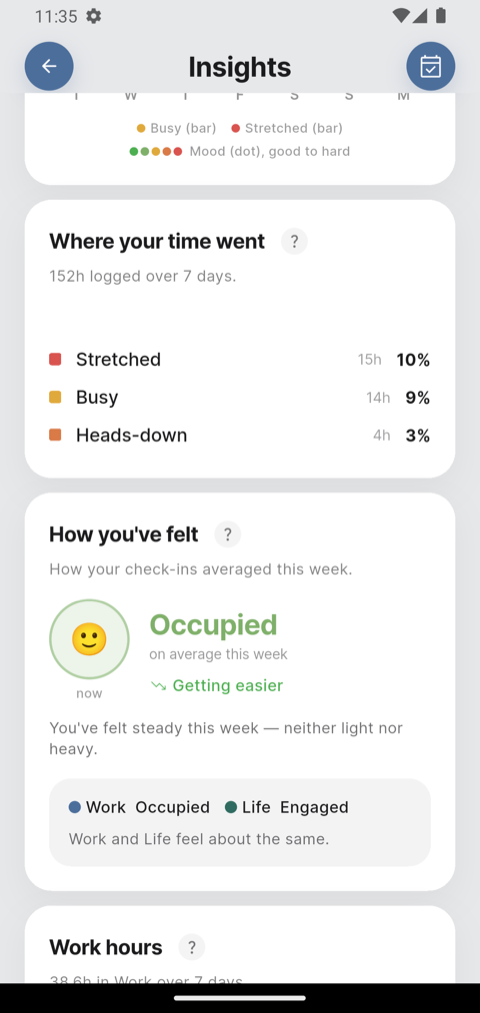
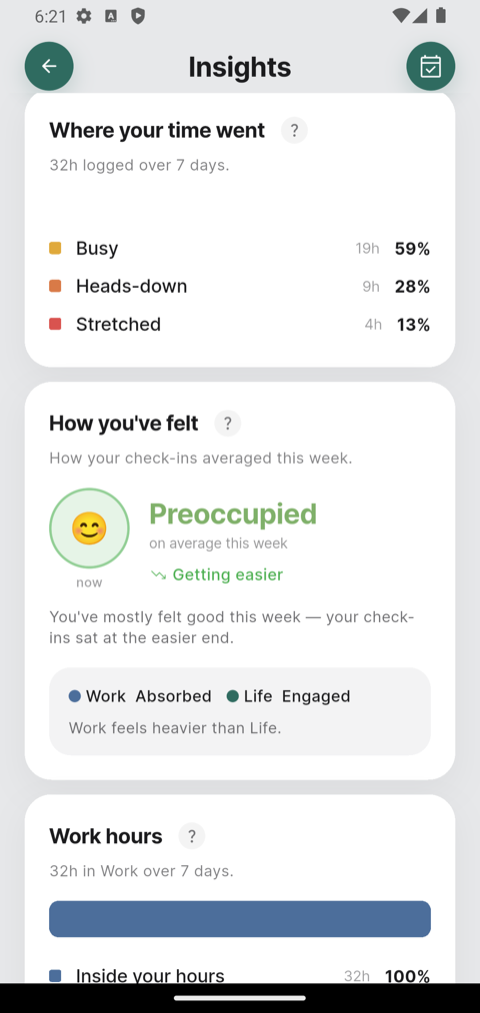
tutorial_1_1_7_40
Mood names and screenshots, the reworded next-day question, and the
gaps found reading the guide against the app: the welcome cards, the
yellow line on the dashboard, past-day events, in-app-only notes.

diff --git a/tutorial/index.html b/tutorial/index.html
@@ -282,7 +282,7 @@
       </p>
       <p>
         Forgot to say? When something suggests you worked, BAI asks the next day:
-        <em>Did you work yesterday evening?</em> Your answer only saves the hours.
+        <em>Did you work outside your hours yesterday?</em> Your answer only saves the hours.
       </p>
       <p class="pillar-when">
         The line can be tapped while your schedule is on. With the schedule off, switch
@@ -302,12 +302,22 @@
   <p>
     This is what opens when you launch BAI, and where the tour begins and ends.
   </p>
+  <p>
+    The first time you open BAI after an update, a short set of cards shows over the
+    dashboard: the everyday things, one per card. The pictures on them are examples
+    only. Tap <strong>Next</strong> to go through them or <strong>Skip</strong> to
+    close; the last card has a button that opens this guide.
+  </p>
   <div class="step">
     <div class="step-body">
       <h3><span class="num">·</span>What you are looking at</h3>
       <ul>
         <li><strong>The arc</strong> is your current status — here, <em>Available</em>.</li>
         <li><strong>The chip under the title</strong> is your mode, Work or Life.</li>
+        <li><strong>In Life mode, a yellow line takes the title's place:</strong>
+            <em>Be mindful of work activities in this mode</em>. While your schedule
+            is on it ends in <em>›</em> and can be tapped, to say you are working
+            outside your hours (<a href="#pillars">Daily use, step 6</a>).</li>
         <li><strong>The face, top right,</strong> is your last check-in. Tap it to update how you feel.</li>
         <li><strong>The four tiles</strong> are the rest of the app.</li>
         <li><strong>The card at the bottom</strong> reads your calendar: hours booked, how many
@@ -787,6 +797,8 @@
         <li>To bring it back, tap it and choose <strong>Count this event again</strong>.</li>
         <li>It <strong>reacts at once</strong>: the ring, the dashboard figures and your
             status all follow, as if you had deleted it.</li>
+        <li>This is for <strong>today and the days ahead</strong>. Once a day has
+            passed, its events can no longer be tapped; earlier today still can.</li>
       </ul>
       <div class="callout">
         BAI still tells you when a new event lands on top of one you have set aside — as
@@ -1083,6 +1095,7 @@
       <p>
         Looking at a day that has already passed? The page reads <em>Wednesday was
         overloaded</em>, calls the list <em>What drove it</em>, and offers no advice.
+        Its events can no longer be tapped.
       </p>
     </div>
     <figure>
@@ -1108,6 +1121,11 @@
             check in.</li>
         <li><strong>Coming up … don't forget to prepare</strong> — the reminders you set
             on an event (<a href="#schedule">Schedule</a>).</li>
+        <li><strong>Work outside your hours</strong> — in the app only, never on the
+            lock screen: a note when the time you set is up, and the next-day
+            question <em>Did you work outside your hours yesterday?</em> (or
+            <em>over the weekend?</em>) with an <strong>Answer</strong> button
+            (<a href="#pillars">Daily use, step 6</a>).</li>
       </ul>
     </div>
     <figure>
@@ -1157,7 +1175,7 @@
       </div>
     </div>
     <figure>
-      <img src="img/mood-scale.png" alt="The mood sheet with the scale running from Energized down through Open, Engaged, Occupied, Focused and Guarded, and an Add your own button beneath">
+      <img src="img/mood-scale.png" alt="The mood sheet with the scale running from Energized down through Open, Engaged, Preoccupied, Absorbed and Reserved, and an Add your own button beneath">
       <figcaption>Mood · the scale, and Add your own</figcaption>
     </figure>
   </div>
@@ -1217,14 +1235,14 @@
       </p>
       <p>
         <strong>How you've felt</strong> sums up your check-ins in words, not numbers:
-        your week's average as a mood — <em>Tired</em>, <em>Focused</em>,
+        your week's average as a mood — <em>Tired</em>, <em>Absorbed</em>,
         <em>Stressed</em> — with a sentence about what that means, and each mode's
         average as a word too. If Life is reading heavier than Work, it says so, which
         is exactly the kind of thing worth noticing.
       </p>
     </div>
     <figure>
-      <img src="img/insights-mood-words.png" alt="Insights panels showing time split by status and the average mood for the week described in words" onerror="shotMissing(this)">
+      <img src="img/insights-mood-words.png" alt="Insights panels showing time split by status, and How you've felt reading Preoccupied on average, with Work at Absorbed and Life at Engaged" onerror="shotMissing(this)">
       <figcaption>Insights · time and feeling</figcaption>
     </figure>
   </div>
